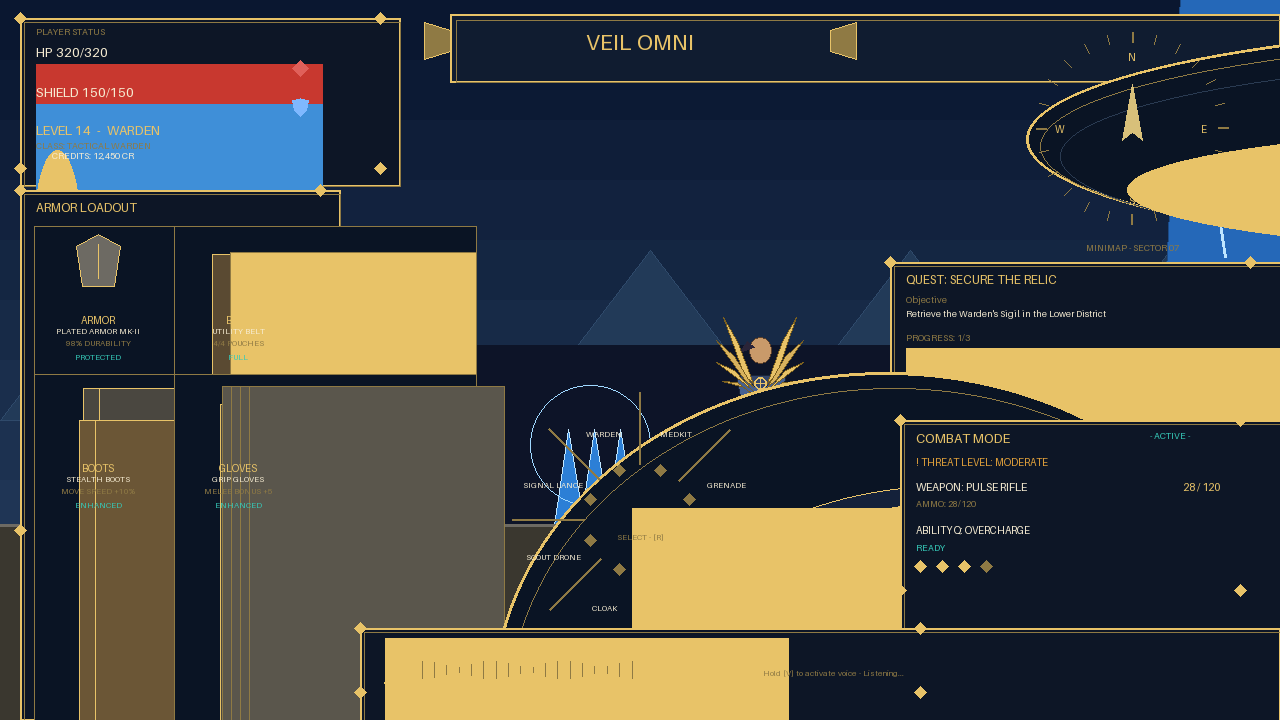
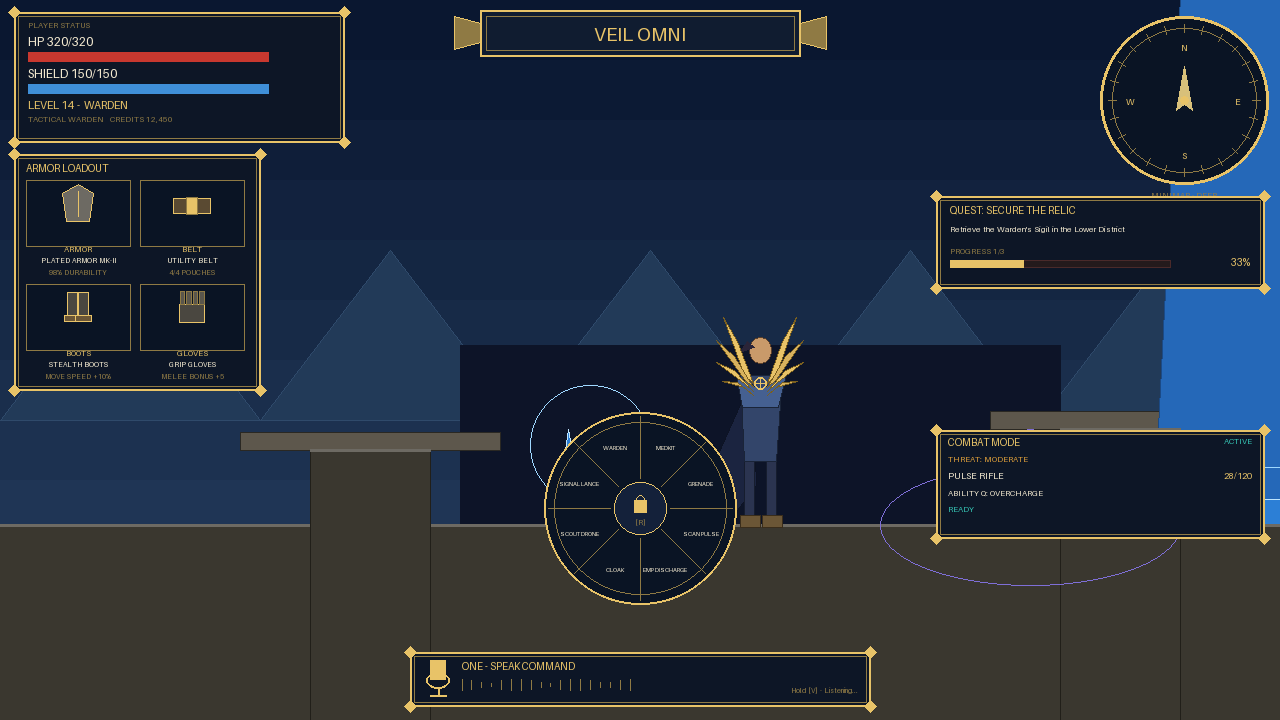
Draw HUD panels with corners, not widths
The canvases size rectangles by width and height, so every panel built from
corner coordinates spilled hundreds of pixels across the screen. A small adapter
converts corners at the HUD and menu boundary; the HP bar now measures its 9
pixels and gold coverage falls from 8.9% to 3.6%.

diff --git a/veil_ui.py b/veil_ui.py
@@ -63,6 +63,30 @@ class UIState:
         ]
 
 
+# ------------------------------------------------------------------ adapter
+class _Corners:
+    """The canvases size rect/oval by width and height; the panels are laid out with
+    corners. Convert once here so both the window and the PNG shots agree."""
+
+    def __init__(self, b):
+        self.b = b
+
+    def rect(self, x0, y0, x1, y1, fill=None, outline=None, width=1):
+        return self.b.rect(x0, y0, x1 - x0, y1 - y0, fill=fill, outline=outline, width=width)
+
+    def oval(self, x0, y0, x1, y1, fill=None, outline=None, width=1):
+        return self.b.oval(x0, y0, x1 - x0, y1 - y0, fill=fill, outline=outline, width=width)
+
+    def __getattr__(self, name):
+        return getattr(self.b, name)
+
+    def __setattr__(self, name, value):
+        if name == "b":
+            object.__setattr__(self, name, value)
+        else:
+            setattr(self.b, name, value)
+
+
 # ------------------------------------------------------------------ pieces
 def frame(b, x, y, w, h, fill=PANEL, thick=2):
     b.rect(x, y, x + w, y + h, fill=fill, outline=GOLD, width=thick)
@@ -131,6 +155,7 @@ def item_glyph(b, kind, cx, cy, s=1.0):
 # ------------------------------------------------------------------ HUD
 def draw_hud(b, st, dlg=None, zone_name="HUB", runner=None):
     W, H = 1280, 720
+    b = _Corners(b)
 
     # 1. player status, top-left, 330x130
     frame(b, 14, 12, 330, 130)
@@ -238,6 +263,7 @@ def draw_hud(b, st, dlg=None, zone_name="HUB", runner=None):
 # ------------------------------------------------------------------ menu
 def draw_menu(b, st, zone_name="HUB"):
     W, H = 1280, 720
+    b = _Corners(b)
     b.rect(0, 0, W, H, fill="#050b16")
     for i in range(8):
         t = i / 8.0
